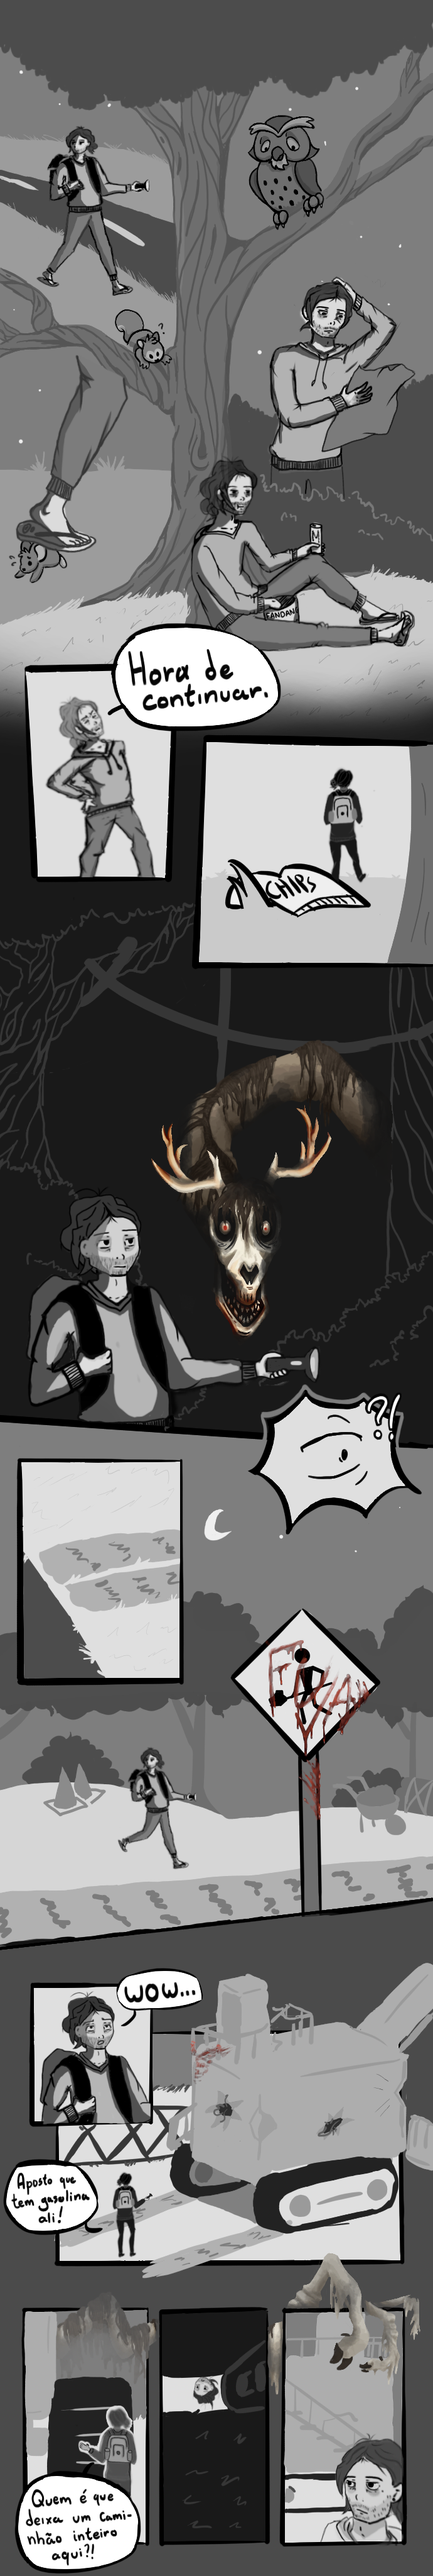
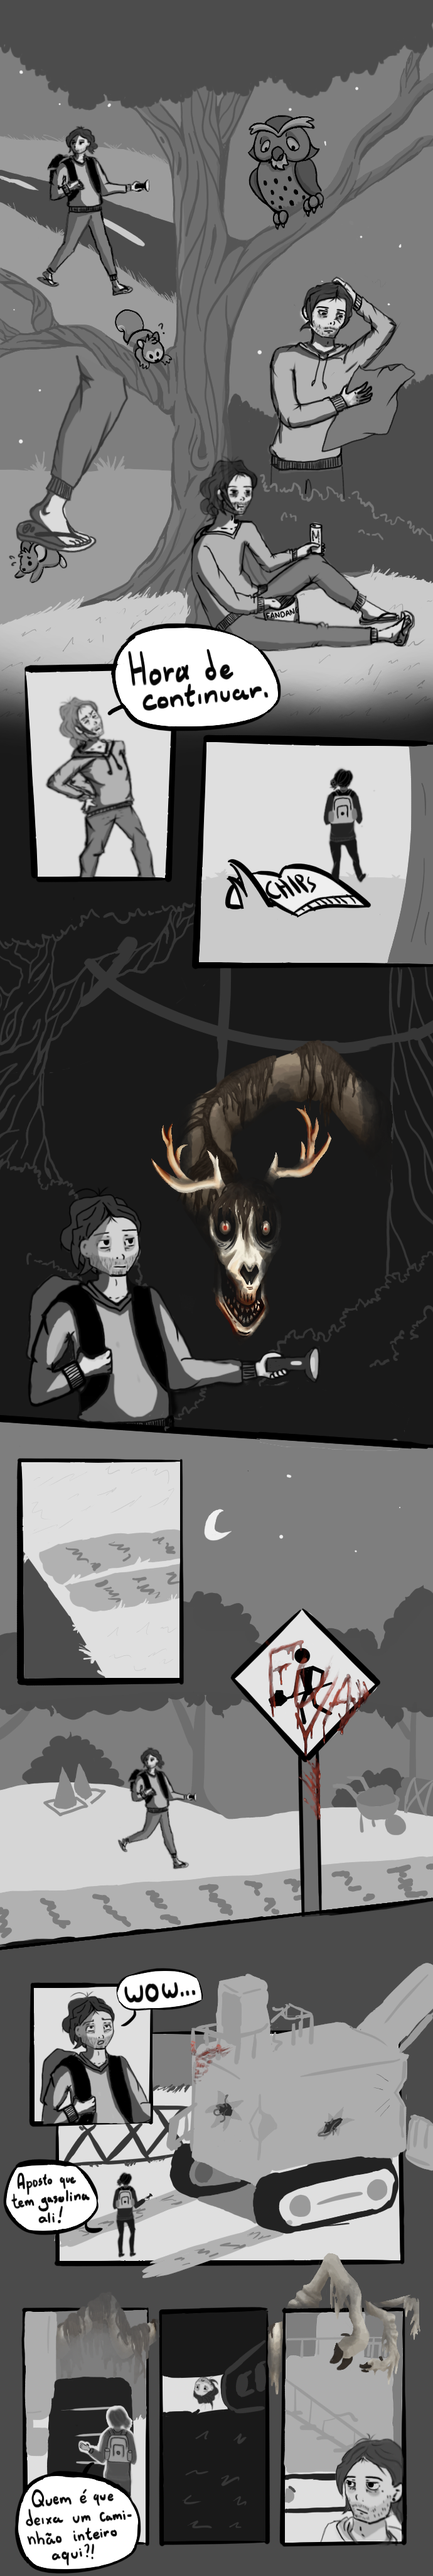
adiciona mais animações

Changed region(s): [[0.5783, 0.5312, 0.9435, 0.5938]]

diff --git a/Projeto/scripts/scroll.js b/Projeto/scripts/scroll.js
@@ -5,9 +5,11 @@ let posicaoLeitor = 0; //calcula a posição do leitor
 let comicTerror = false; //variável booleana que define se a comic está em sua forma de terror ou não
 
 let iniciaAnimacaoPagina3 = false;
+let iniciaAnimacaoPagina2 = false;
 
 const posicaoEventosDeScroll = {
     pg1: 0.9, //coloca borda nos itens coletáveis
+    pg2: 0.58, //mostra a animação do balao de surpresa da página 2
     pg3: 0.98, //transforma a comic em terror
     pg3Animacoes: 0.86, //inicia as animações da página 3
 }
@@ -46,6 +48,7 @@ function initEventosDeScroll() {
     
             //Parte que efetivamente transforma a comic em terror
             if (comicTerror) {
+                document.querySelector("#balaoSurpresa").style.display = "block";
                 document.querySelectorAll(".terror").forEach((x) => {
                     x.style.display = "block";
                 });
@@ -64,8 +67,7 @@ function initEventosDeScroll() {
     
             //Esse conjunto realiza a animação de chocalho da página 3 (está com erro)
             if (
-                window.innerHeight + window.scrollY >=
-                    document.documentElement.scrollHeight * posicaoEventosDeScroll.pg3Animacoes &&
+                posicaoLeitor >= posicaoEventosDeScroll.pg3Animacoes &&
                 !iniciaAnimacaoPagina3
             ) {
                 iniciaAnimacaoPagina3 = true;
@@ -84,6 +86,16 @@ function initEventosDeScroll() {
                     batida.style.animation = "batida .5s ease-in-out 5";
                 }, 6500);
             }
+
+            if (
+                posicaoLeitor <= posicaoEventosDeScroll.pg2 
+                && !iniciaAnimacaoPagina2
+                && comicTerror
+            ) {
+                console.log("heklhsakjl")
+                iniciaAnimacaoPagina2 = true;
+                document.querySelector("#balaoSurpresa").style.animation = "surpresa 0.5s ease-out 4";
+            } 
         }
     });
 }

diff --git a/Projeto/style.css b/Projeto/style.css
@@ -176,6 +176,29 @@ img.fundo {
     }
 }
 
+#balaoSurpresa {
+    display: none;
+    position: absolute;
+    aspect-ratio: 1.1 / 1;
+    height: auto;
+    left: 39.5%;
+    top: 50%;
+    transform: rotate(0deg);
+    /* animation: surpresa 0.5s ease-out 4;  */
+}
+
+@keyframes surpresa {
+    0% {
+        transform: scale(1) rotate(0deg);
+    }
+    50% {
+        transform: scale(1.1) rotate(5deg);
+    }
+    100% {
+        transform: scale(1) rotate(0deg);
+    }
+}
+
 #overlay-inicio {
     position: fixed;
     inset: 0;

diff --git a/index.html b/index.html
@@ -28,6 +28,7 @@
         <div class="cena" id="cena2">
             <img class="fundo padrao" src="Projeto/img/Cena2/cena2_sem_bixo.png" alt="">
             <img class="fundo terror" src="Projeto/img/Cena2/cena2_com_bixo.png" alt="">
+            <img src="Projeto/img/Cena2/balao_supresa.png" id="balaoSurpresa" alt="">
         </div>
 
         <div class="cena" id="cena3">
